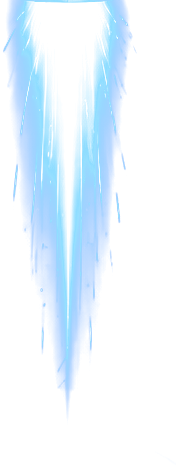
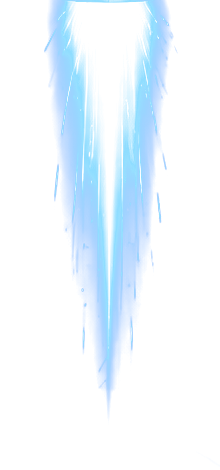
噴射の光をエンジンの丸い光の真ん中から出す (v0.6.6)
使う人の指摘: まだエンジンの丸い光からずれて見える。
原因: 見本から噴射を切り出すとき、上下の範囲を「光が写っている所」で決めていた。光は噴射口の
中心より片側へ広く散っていたので、絵の真ん中と噴射の中心が 21px (幅の 12%) ずれていた。
板に貼るとそのぶん噴射口から横にずれる (前の版の幅で約 0.3m)。
- 噴射口のすぐ後ろの光の重心の行を真ん中にして切り出し直した (ずれ 0.8%)
- 絵の幅が変わったので、根もとの光がエンジンの筒 (1.6m) に収まるよう幅を合わせ直した (1.61m)
見張り: 噴射の絵の光の中心が真ん中から 3% 以内 (前の絵では 11.8% で落ちる)。

Claude-Session: https://claude.ai/code/session_01WDQTh22rZnnPpnZeWGjk7G

diff --git a/browser-test.js b/browser-test.js
@@ -276,6 +276,20 @@ async function run() {
     ok(boostFx.jet > jetNormal * 1.6, `ブーストで噴射の光が延びる (${jetNormal.toFixed(1)} → ${boostFx.jet.toFixed(1)})`);
     const rootN = await page.evaluate(() => window.__app.jetRoot());
     ok(rootN <= 1.65 && boostFx.root <= 1.65, `噴射の根もとがエンジンの筒 (直径 1.6m) からはみ出さない (ふだん ${rootN.toFixed(2)}m・ブースト ${boostFx.root.toFixed(2)}m)`);
+    // 噴射の絵は、光の中心が絵の真ん中にある (ずれていると、板の上で噴射口からずれて見える)
+    const plumeC = await page.evaluate(() => new Promise((res) => {
+      const im = new Image();
+      im.onload = () => {
+        const c = document.createElement('canvas'); c.width = im.naturalWidth; c.height = im.naturalHeight;
+        const x = c.getContext('2d'); x.drawImage(im, 0, 0);
+        const d = x.getImageData(0, 0, c.width, 60).data;
+        let sw = 0, sx = 0;
+        for (let i = 0; i < d.length; i += 4) { const a = d[i + 3], px = (i / 4) % c.width; sw += a; sx += a * px; }
+        res({ off: Math.abs(sx / sw - c.width / 2) / c.width });
+      };
+      im.src = (window.__ASSETS && window.__ASSETS['plume.png']) || './plume.png';
+    }));
+    ok(plumeC.off < 0.03, `噴射の絵の光の中心が真ん中にある (ずれ ${(plumeC.off * 100).toFixed(1)}%)`);
     ok(jetNormal >= 8.8, `ふだんの噴射は、送ってもらった絵と同じく機体 (11m) の 0.8 倍以上 (${jetNormal.toFixed(1)}m)`);
 
     // 撃墜の瞬間: タメ (時が止まる)・衝撃波の輪・遠くても画面で小さくならない・膨らむ煙の玉を出さない

diff --git a/app.js b/app.js
@@ -4,7 +4,7 @@
 (function () {
   'use strict';
 
-  const VERSION = 'v0.6.5';
+  const VERSION = 'v0.6.6';
   const C = window.Core;
   const THREE = window.THREE;
   const K = C.TUNING;
@@ -129,7 +129,7 @@
     c.putImageData(img, 0, 0);
   });
 
-  const JET_ROOT = 0.65; // plume.png の根もとの光の幅 (絵の幅に対する割合、明るさ 15% 以上)
+  const JET_ROOT = 0.53; // plume.png の根もとの光の幅 (絵の幅に対する割合、明るさ 15% 以上)
   const JET_MAT = new THREE.MeshBasicMaterial({
     map: jetTex, color: 0x8fd4ff, transparent: true, blending: THREE.AdditiveBlending,
     depthWrite: false, side: THREE.DoubleSide
@@ -148,8 +148,8 @@
       f.scale.set(s, s, 1);
     });
     // 長さは送ってもらった絵に合わせて機体 (11m) の 0.9 倍ほど (ふだん 10m・ブースト約 17m)。
-    // 幅は、絵の根もとの光 (絵の幅の 65%) がエンジンの筒 (直径 1.6m) に収まるように決める
-    const len = 10 * (0.5 + 0.5 * Math.pow(thrust, 1.4)) * fl, wid = 2.3 + 0.1 * thrust;
+    // 幅は、絵の根もとの光 (絵の幅の 53%) がエンジンの筒 (直径 1.6m) に収まるように決める
+    const len = 10 * (0.5 + 0.5 * Math.pow(thrust, 1.4)) * fl, wid = 2.85 + 0.1 * thrust;
     ship.userData.jetRoot = wid * JET_ROOT;
     ship.userData.jets.forEach(function (j) { j.scale.set(wid, wid, len); });
     ship.userData.jetBase = len / fl; // ゆらぎを除いた長さ (見張り用)

diff --git a/CLAUDE.md b/CLAUDE.md
@@ -42,7 +42,8 @@
 - 自機の噴射・ブースト・ミサイルの跡は**光で見せる** (宇宙に煙は出さない)。噴射は白い芯 + 小さな青い光 +
   十字に組んだ板に貼った光の筋。筋の絵は送ってもらった見本から切り出した `plume.png` (横から見た噴射。噴射口を上に回してある。
   マゼンタ地の青い光は、緑の量を光の強さとみなし、色は青→水色→白で当て直した)。長さは見本どおり機体 (11m) の 0.9 倍ほど
-  (ふだん 10m・ブースト約 17m、`setThrust`)。幅は根もとの光 (絵の幅の 65%) がエンジンの筒 (直径 1.6m) に収まる 2.4m 前後。
+  (ふだん 10m・ブースト約 17m、`setThrust`)。幅は根もとの光 (絵の幅の 53%) がエンジンの筒 (直径 1.6m) に収まる 3m 前後。
+  切り出しは見本の噴射口の中心 (光の重心の行) を真ん中にしてある。
   ブーストで出すのは小さな光の粒だけ
 - **撃墜の瞬間** (`killBurst`、敵機・砲台・エンジン・コア): 一瞬だけ時を止める (0.06〜0.14 秒)・白い閃光・
   衝撃波の輪・爆発。140m より遠い撃墜は見せる大きさを距離に比例して拡げ、画面で小さくなりすぎない。
@@ -314,5 +315,6 @@ serve.js                  開発用サーバー
 | ボスを近くにワープさせたのに、画面の下のふちに甲板だけが見えた | 前と同じ「300m 下」に置いた。前へ 540m だと見下ろす角度が 29° になり、画面の下半分 (33°) のふちに切れる。集まる光も画面の外だった | **画面のどこに映るかを角度で先に決める。** 前 700m・下 150m (12°) で、画面の下寄りの真ん中に横幅の 7 割ほどで出る。見下ろす形は残るので線にはならない |
 | 見本の絵から青い噴射を切り出したら、外側のぼんやりした光が紫になった | マゼンタの上に描かれた青い光を「背景の色からの距離」で抜いた。薄い所は距離が小さく、抜いたあとの色にマゼンタが残る | 光の絵は**背景に無い色の量**で抜く (マゼンタは緑がほぼ 0 なので、緑の量 = 光の強さ)。色は明るさに合わせて決めた色 (青→水色→白) を当て直す。抜いたら**黒地に足した (加算の) 見え方**で見る |
 | 見本どおりの大きさにした噴射が、エンジンの外へはみ出した | 板の幅を「見本の噴射の縦横比」で決めた (3.9m)。見本はエンジン自体が大きく描かれていて、絵の根もとの光 (絵の幅の 65%) が 2.5m になり、こちらのエンジンの筒 (1.6m) より太かった | 長さは見本に合わせ、**幅は付け根の物 (エンジンの太さ) に合わせる**。根もとの光の割合を絵から測って幅を逆算する。見張りは「根もとの光の幅 ≤ エンジンの筒」 |
+| 噴射の光が、エンジンの丸い光から横にずれて見えた | 見本から切り出すとき、上下の範囲を「光が写っている所」で決めた。光は噴射口の中心より片側へ広く散っていたので、絵の真ん中と噴射の中心が 21px (幅の 12%) ずれた。板に貼るとそのぶん噴射口から横にずれる | 切り出す範囲は**付け根の中心 (噴射口のすぐ後ろの光の重心) を真ん中に**して決める。見張りは「絵の上の方の光の重心が真ん中から 3% 以内」(前の絵では 12%) |
 
 **新しく踏んだら、この表に足すこと。**
